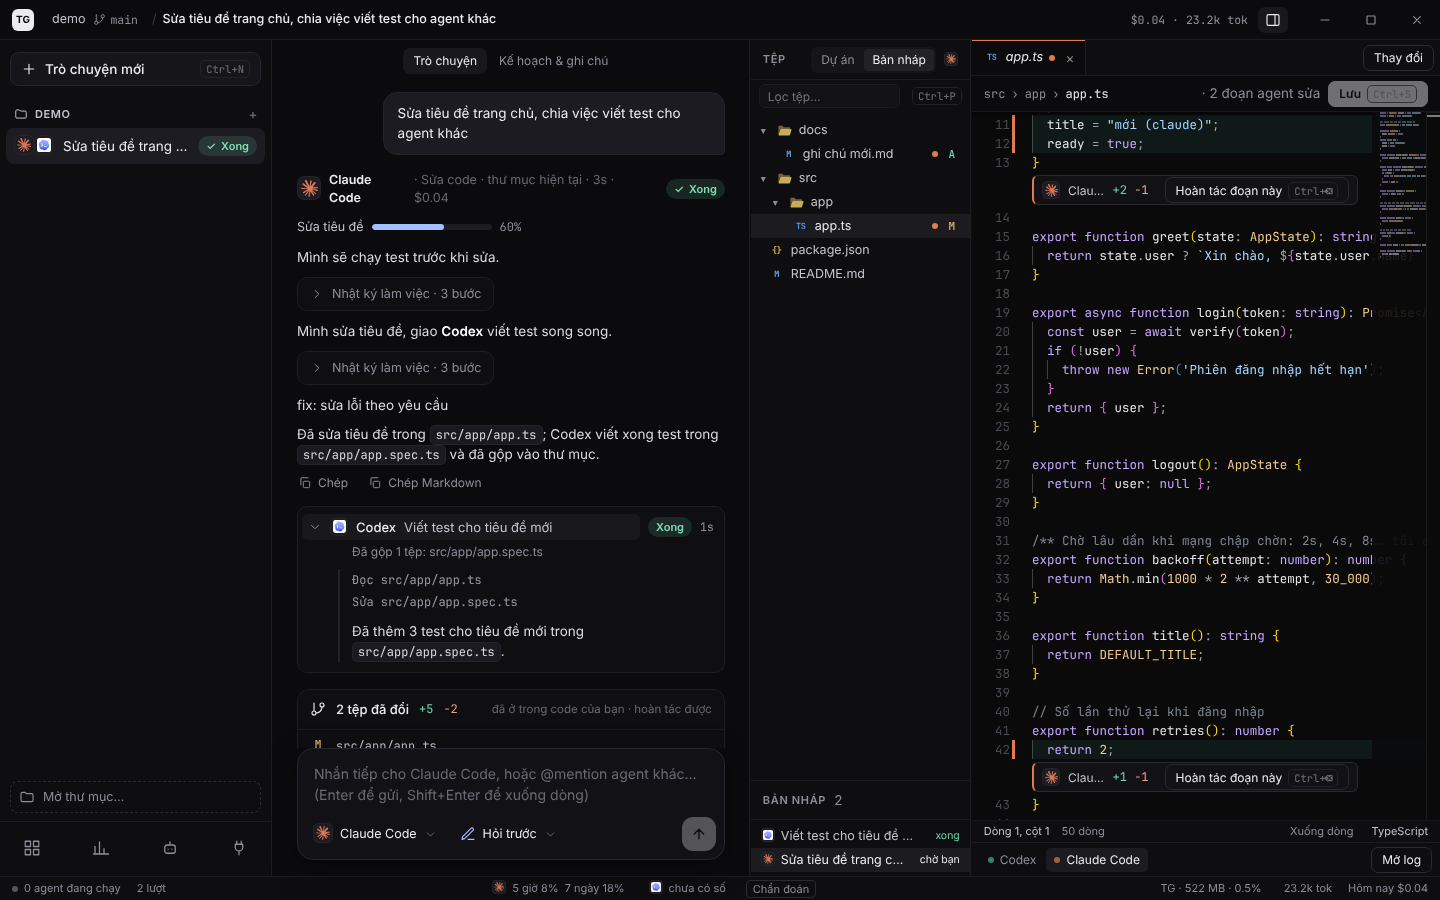
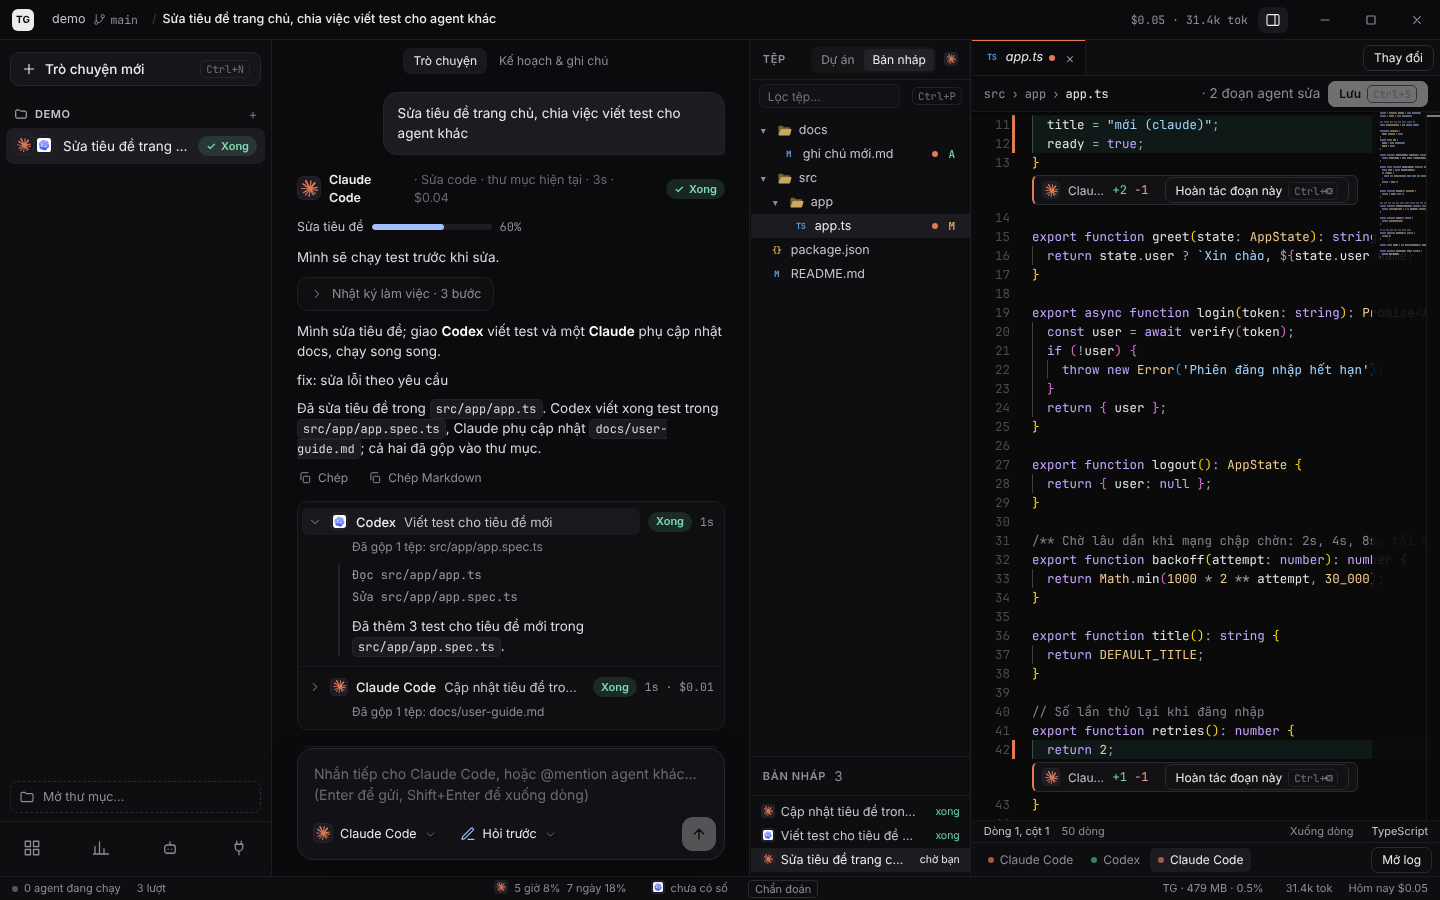
feat(mock): delegate to a Codex and a helper Claude at once
The mock now shows two agents working in parallel under Claude, like the
design: Codex writes the tests, another Claude updates the docs.

Claude-Session: https://claude.ai/code/session_019ESpyWVEEKKYJq5zzNYY2i

diff --git a/src/app/core/mock-backend.ts b/src/app/core/mock-backend.ts
@@ -1,5 +1,5 @@
 import { AgentBackend, SettingKey, Unlisten } from './backend';
-import { AccountLimits, AgentEvent, AgentOptions, BridgeNote, AgentId, CheckResult, Composite, DetectedAgent, FileDiff, LimitWindow, McpServer, OwnChange, OwnChanges, Pick, PriceRow, Project, Skill, SkillInstalled, SkillTarget, StoredRun, Usage, UsageRow, GitPlan, AgentCommand, ProcStat, ResourceReport, UsageGroup } from './protocol';
+import { AGENT_META, AccountLimits, AgentEvent, AgentOptions, BridgeNote, AgentId, CheckResult, Composite, DetectedAgent, FileDiff, LimitWindow, McpServer, OwnChange, OwnChanges, Pick, PriceRow, Project, Skill, SkillInstalled, SkillTarget, StoredRun, Usage, UsageRow, GitPlan, AgentCommand, ProcStat, ResourceReport, UsageGroup } from './protocol';
 
 interface MockRun {
   /** Its session waits for more messages after a turn. */
@@ -349,9 +349,9 @@ export class MockBackend extends AgentBackend {
     else if (run.agent === 'claude') {
       send({ kind: 'bridge', line: '◆ tg-bridge · đề xuất chuyển cho codex: Viết test cho tiêu đề mới', data: { tool: 'handoff_to', id: `handoff-${runId}`, agent: 'codex', task: 'Viết test cho tiêu đề mới', files: ['src/app/app.spec.ts'] } }, 470);
     }
-    if (delegating) send({ kind: 'message', data: { text: 'Mình sửa tiêu đề, giao **Codex** viết test song song.' } }, 320);
+    if (delegating) send({ kind: 'message', data: { text: 'Mình sửa tiêu đề; giao **Codex** viết test và một **Claude** phụ cập nhật docs, chạy song song.\n\n' } }, 320);
     send({ kind: 'message', data: { text: delegating
-      ? 'fix: sửa lỗi theo yêu cầu\n\nĐã sửa tiêu đề trong `src/app/app.ts`; Codex viết xong test trong `src/app/app.spec.ts` và đã gộp vào thư mục.'
+      ? 'fix: sửa lỗi theo yêu cầu\n\nĐã sửa tiêu đề trong `src/app/app.ts`. Codex viết xong test trong `src/app/app.spec.ts`, Claude phụ cập nhật `docs/user-guide.md`; cả hai đã gộp vào thư mục.'
       : 'fix: sửa lỗi theo yêu cầu\n\nĐã sửa tiêu đề trong `src/app/app.ts` và chạy lại **toàn bộ test**:\n\n- Đổi chuỗi tiêu đề\n- Cập nhật test liên quan' } }, 500 + late);
     send({ kind: 'plan', data: { entries: [
       { content: 'Chạy test hiện tại', status: allowed ? 'completed' : 'pending' },
@@ -364,30 +364,38 @@ export class MockBackend extends AgentBackend {
     this.endTurn(runId, run, 580 + late);
   }
 
-  /** Mock tg-bridge `delegate`: a Codex run nested in the parent, merged back when done. */
+  /** Mock tg-bridge `delegate`: a Codex and a helper Claude nested in the parent, merged back when done. */
   private delegateMock(parentId: string, parent: MockRun): void {
-    const id = `dlg-${parentId}`;
+    this.delegateOne(parentId, parent, { n: 1, agent: 'codex', task: 'Viết test cho tiêu đề mới', file: 'src/app/app.spec.ts',
+      reply: 'Đã thêm 3 test cho tiêu đề mới trong `src/app/app.spec.ts`.', cost: null, at: 340, takes: 1500 });
+    this.delegateOne(parentId, parent, { n: 2, agent: 'claude', task: 'Cập nhật tiêu đề trong docs/user-guide.md', file: 'docs/user-guide.md',
+      reply: 'Đã đổi tiêu đề ở mục 3 của `docs/user-guide.md`.', cost: 0.01, at: 380, takes: 1000 });
+  }
+
+  private delegateOne(parentId: string, parent: MockRun, o: { n: number; agent: AgentId; task: string; file: string; reply: string; cost: number | null; at: number; takes: number }): void {
+    const id = `dlg-${parentId}-${o.n}`;
     const childId = crypto.randomUUID();
-    const task = 'Viết test cho tiêu đề mới';
+    const name = AGENT_META[o.agent].name;
     const root = `${this.tasks.get(parentId)?.root ?? '/mock'}/.tg/worktrees/${childId}`;
-    const base = { id, parent: parentId, agent: 'codex', task, summary: null, filesChanged: [] as string[], conflicts: [] as string[] };
+    const base = { id, parent: parentId, agent: o.agent, task: o.task, summary: null, filesChanged: [] as string[], conflicts: [] as string[] };
     const toParent = (data: Record<string, unknown>, line: string, delay: number, effect?: () => void) =>
       this.later(parentId, parent, { kind: 'bridge', line, data: { ...base, ...data } }, delay, effect);
-    toParent({ tool: 'delegate', child: null, status: 'running', worktree: null }, `◆ tg-bridge · giao cho Codex: ${task}`, 340, () => {
-      const child: MockRun = { agent: 'codex', prompt: task, timers: [], active: true, open: false };
+    toParent({ tool: 'delegate', child: null, status: 'running', worktree: null }, `◆ tg-bridge · giao cho ${name}: ${o.task}`, o.at, () => {
+      const child: MockRun = { agent: o.agent, prompt: o.task, timers: [], active: true, open: false };
       this.runs.set(childId, child);
-      this.tasks.set(childId, { files: [], contents: mockContents('codex', false), root, accepted: 0, staged: new Set<string>(), pending: false, own: [], direct: false });
+      this.tasks.set(childId, { files: [], contents: mockContents(o.agent, false), root, accepted: 0, staged: new Set<string>(), pending: false, own: [], direct: false });
       const send = (partial: Partial<AgentEvent>, delay: number) => this.later(childId, child, partial, delay);
-      send({ kind: 'started', line: `mock codex · ${root}`, data: { parent: parentId } }, 10);
-      send({ kind: 'tool', data: { toolCallId: 'c1', title: 'Đọc src/app/app.ts', kind: 'read', status: 'completed' } }, 300);
-      send({ kind: 'tool', data: { toolCallId: 'c2', title: 'Sửa src/app/app.spec.ts', kind: 'edit', status: 'pending', locations: [{ path: `${root}/src/app/app.spec.ts`, line: 1 }] } }, 600);
-      send({ kind: 'tool', data: { toolCallId: 'c2', status: 'completed' } }, 1100);
-      send({ kind: 'message', data: { text: 'Đã thêm 3 test cho tiêu đề mới trong `src/app/app.spec.ts`.' } }, 1300);
-      send({ kind: 'usage', usage: { inputTokens: 1800, cachedInputTokens: 6000, outputTokens: 420, costUsd: null, source: 'tokens', cumulative: true } }, 1350);
-      send({ kind: 'exit', code: 0, data: { status: 'done' } }, 1500);
-      toParent({ tool: 'delegate', child: childId, status: 'running', worktree: root }, `◆ tg-bridge · giao cho Codex: ${task}`, 30);
-      toParent({ tool: 'delegate_done', child: childId, status: 'done', worktree: null, filesChanged: ['src/app/app.spec.ts'], summary: 'Đã thêm 3 test cho tiêu đề mới.' },
-        '◆ tg-bridge · Codex done: Viết test cho tiêu đề mới', 1600);
+      const t = (f: number) => Math.round(o.takes * f);
+      send({ kind: 'started', line: `mock ${o.agent} · ${root}`, data: { parent: parentId } }, 10);
+      send({ kind: 'tool', data: { toolCallId: 'c1', title: 'Đọc src/app/app.ts', kind: 'read', status: 'completed' } }, t(0.2));
+      send({ kind: 'tool', data: { toolCallId: 'c2', title: `Sửa ${o.file}`, kind: 'edit', status: 'pending', locations: [{ path: `${root}/${o.file}`, line: 1 }] } }, t(0.4));
+      send({ kind: 'tool', data: { toolCallId: 'c2', status: 'completed' } }, t(0.7));
+      send({ kind: 'message', data: { text: o.reply } }, t(0.85));
+      send({ kind: 'usage', usage: { inputTokens: 1800, cachedInputTokens: 6000, outputTokens: 420, costUsd: o.cost, source: o.cost === null ? 'tokens' : 'reported', cumulative: true } }, t(0.9));
+      send({ kind: 'exit', code: 0, data: { status: 'done' } }, o.takes);
+      toParent({ tool: 'delegate', child: childId, status: 'running', worktree: root }, `◆ tg-bridge · giao cho ${name}: ${o.task}`, 30);
+      toParent({ tool: 'delegate_done', child: childId, status: 'done', worktree: null, filesChanged: [o.file], summary: o.reply },
+        `◆ tg-bridge · ${name} done: ${o.task}`, o.takes + 100);
     });
   }
 
